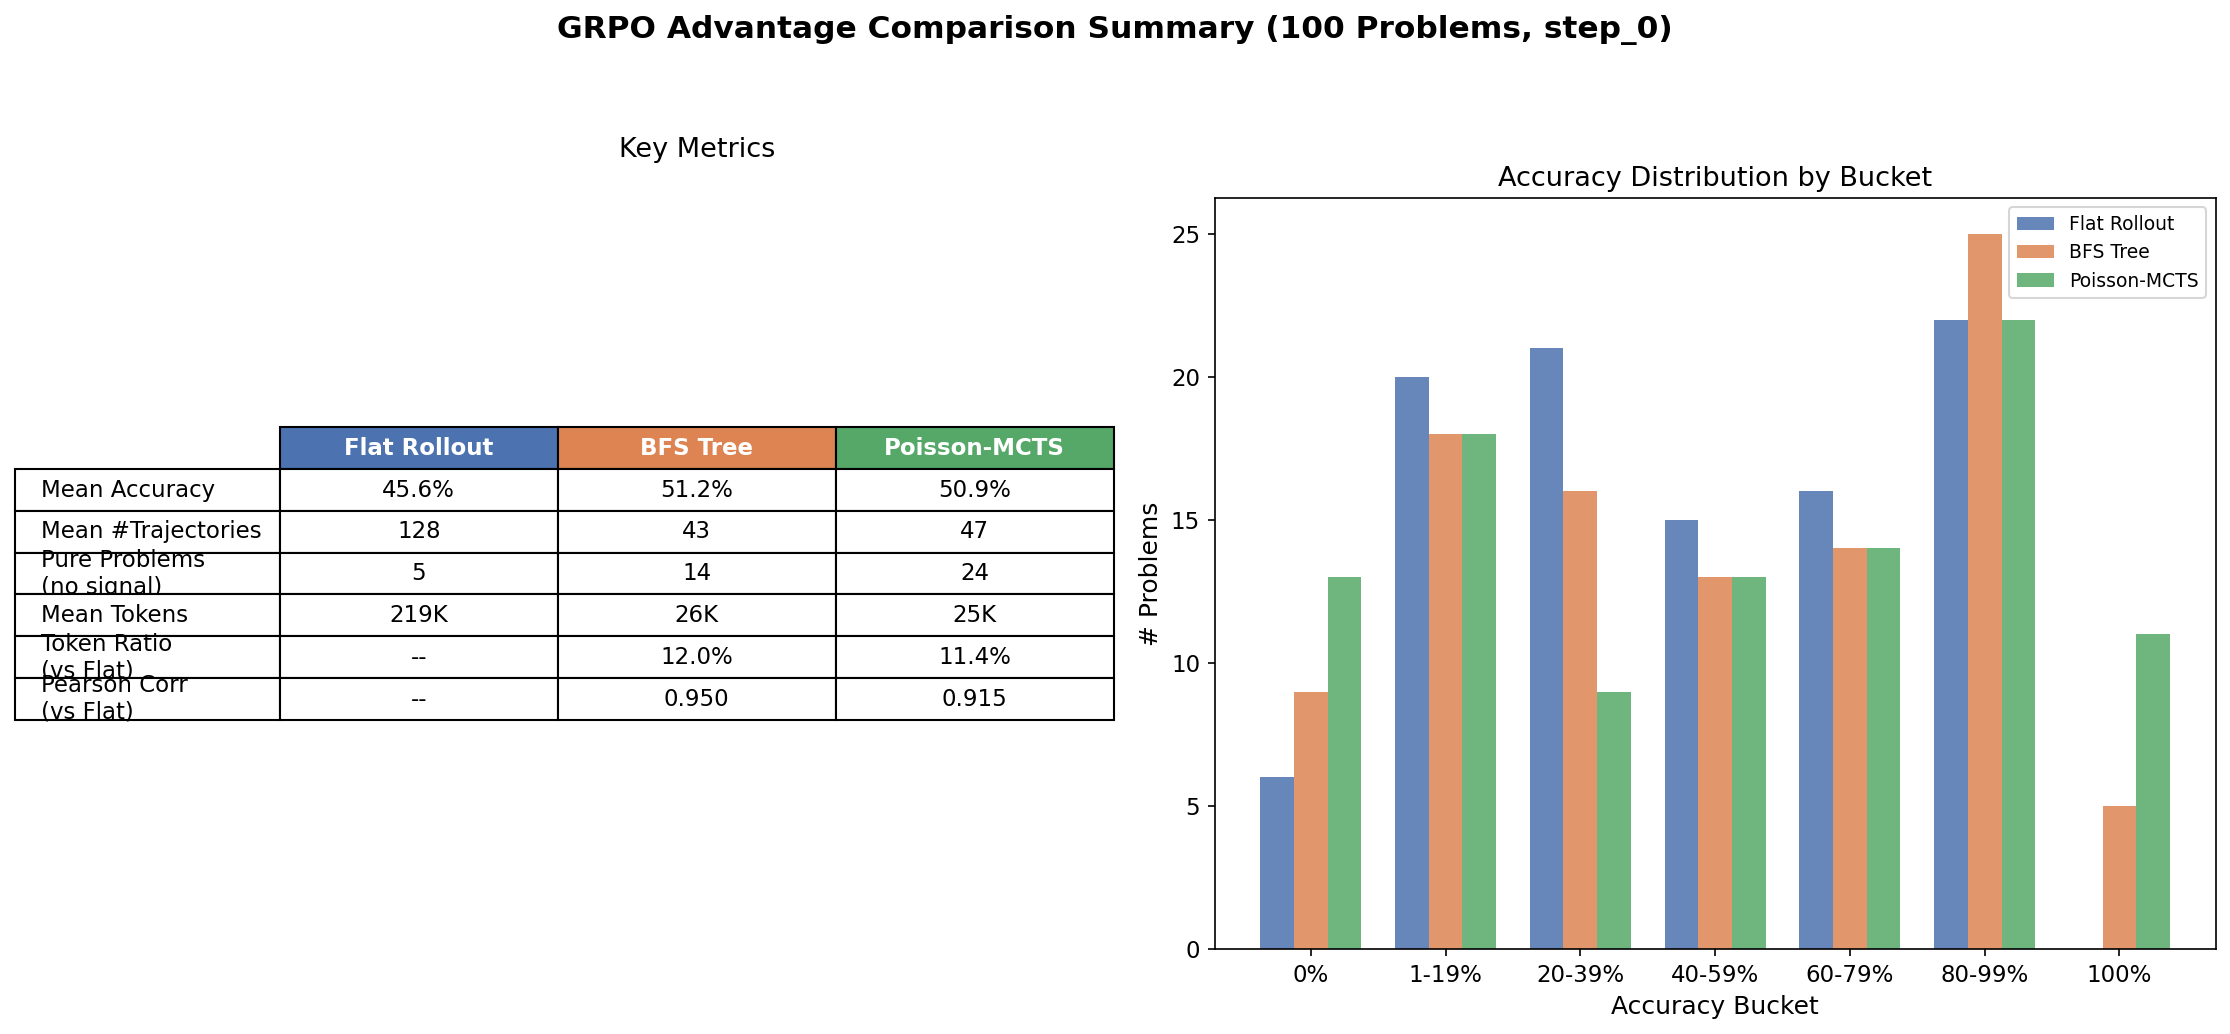
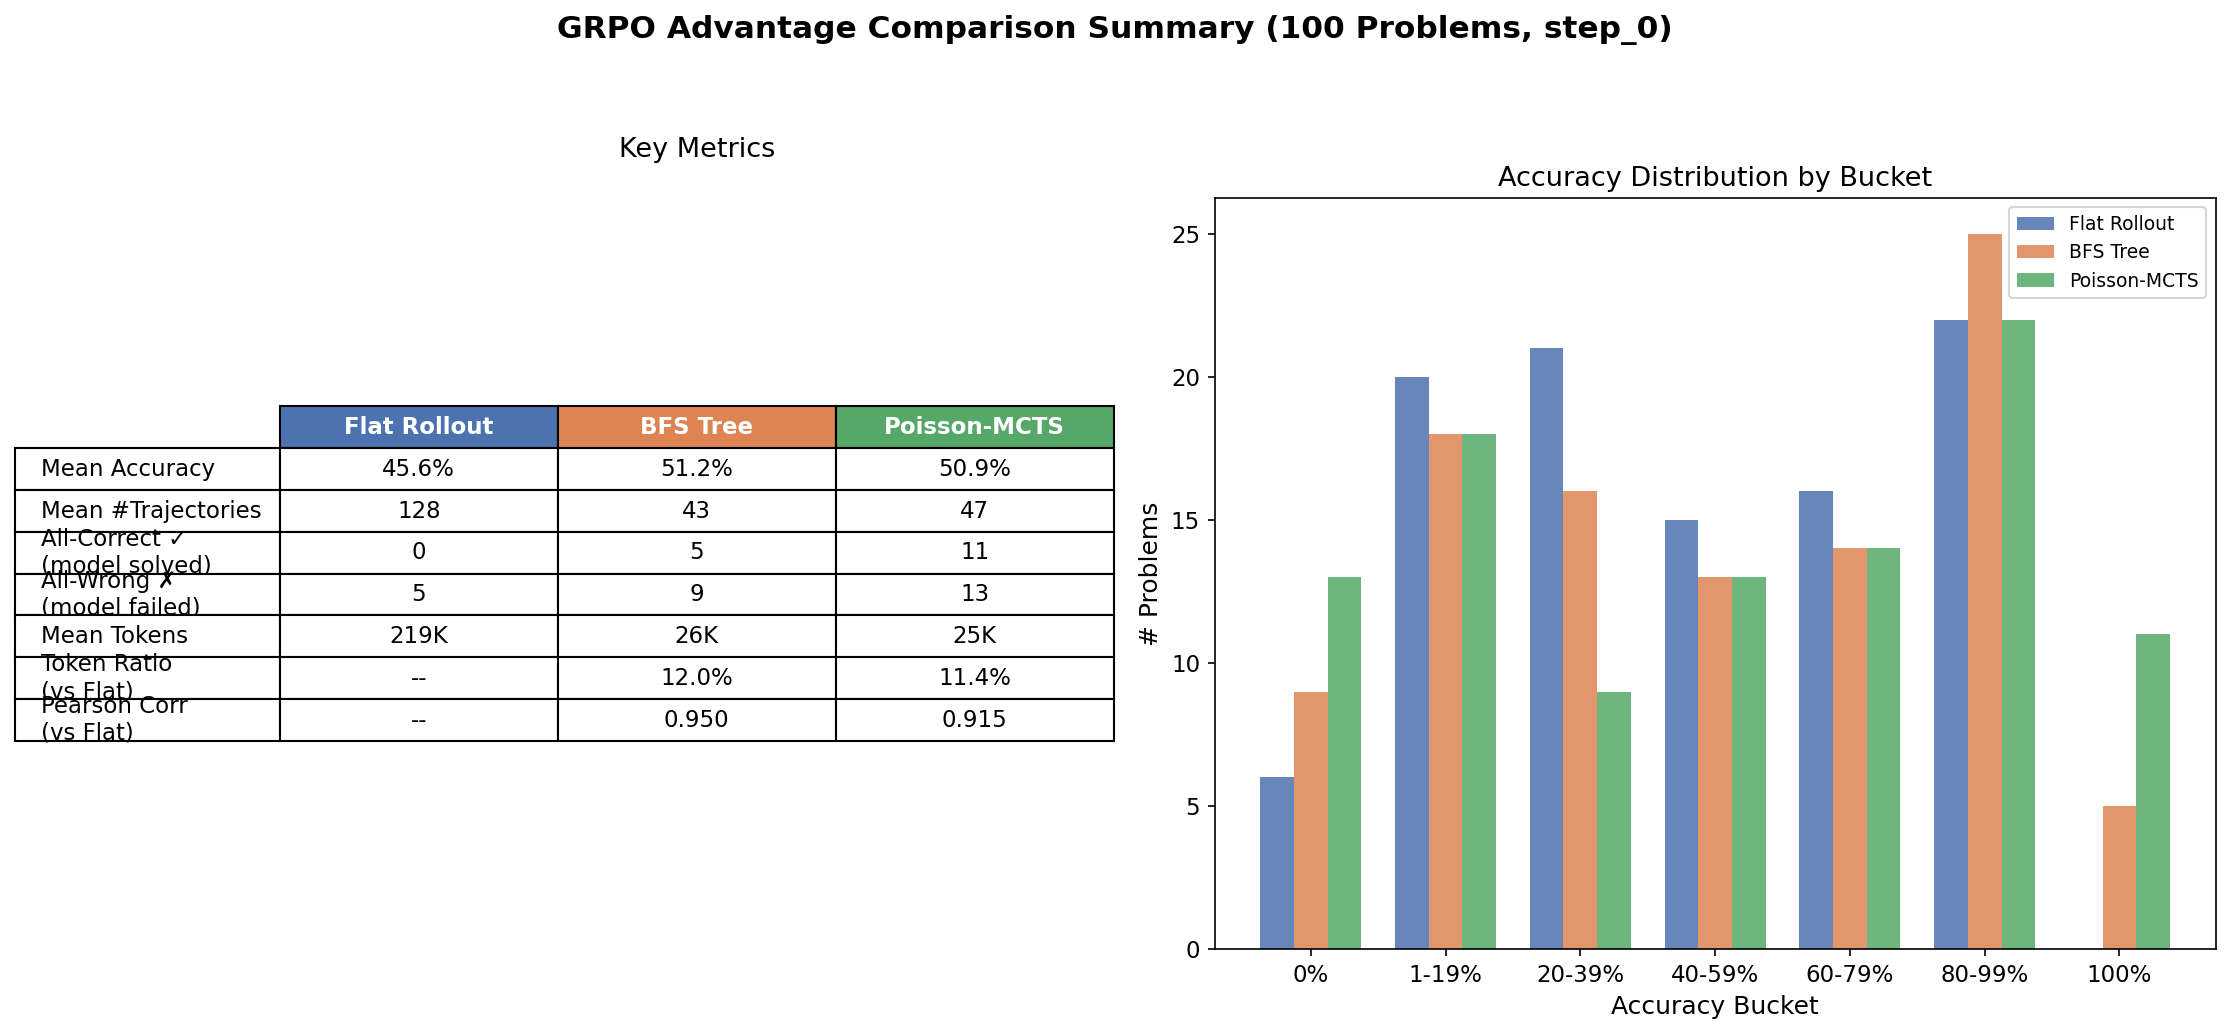
Split no-advantage into all-correct vs all-wrong (ROADMAP item #1)
Replaces 'purity' framing with the more meaningful split:
- All-Correct (model solved): good outcome despite zero GRPO signal
- All-Wrong (model failed): the truly bad case

Key finding on 100 problems @ step_0:
- Flat: 0 all-correct, 5 all-wrong
- BFS: 5 all-correct, 9 all-wrong
- MCTS: 11 all-correct, 13 all-wrong
- Tree methods are net-positive on outcomes (more newly-solved than newly-failed)

Changed region(s): [[0.0, 0.3714, 0.4951, 0.7427]]

diff --git a/poisson_mcts/plot_advantage_comparison.py b/poisson_mcts/plot_advantage_comparison.py
@@ -215,61 +215,90 @@ def plot_token_efficiency(results, out_dir):
     print(f"Saved {out_dir}/token_efficiency.png")
 
 
-def plot_purity_analysis(results, out_dir):
-    """Purity (adv_std=0) analysis: who loses signal and why."""
-    fig, axes = plt.subplots(1, 3, figsize=(16, 5.5))
+def plot_no_advantage_analysis(results, out_dir):
+    """No-advantage analysis: split into all-correct (good) vs all-wrong (bad)."""
+    fig, axes = plt.subplots(1, 3, figsize=(17, 6))
 
     fa = np.array([r["flat"]["accuracy"] for r in results])
     ba = np.array([r["bfs_tree"]["accuracy"] for r in results])
     ma = np.array([r["poisson_mcts"]["accuracy"] for r in results])
-    f_pure = np.array([r["flat"]["adv_std"] < 0.01 for r in results])
-    b_pure = np.array([r["bfs_tree"]["adv_std"] < 0.01 for r in results])
-    m_pure = np.array([r["poisson_mcts"]["adv_std"] < 0.01 for r in results])
-    bn = np.array([r["bfs_tree"]["num_trajectories"] for r in results])
-    mn = np.array([r["poisson_mcts"]["num_trajectories"] for r in results])
 
-    # Purity counts
+    def split(method_key):
+        accs = np.array([r[method_key]["accuracy"] for r in results])
+        no_adv = np.array([r[method_key]["adv_std"] < 0.01 for r in results])
+        all_correct = no_adv & (accs > 0.99)
+        all_wrong = no_adv & (accs < 0.01)
+        return no_adv, all_correct, all_wrong
+
+    f_no, f_correct, f_wrong = split("flat")
+    b_no, b_correct, b_wrong = split("bfs_tree")
+    m_no, m_correct, m_wrong = split("poisson_mcts")
+
+    # 1. Stacked bar: all-correct (good) vs all-wrong (bad)
     ax = axes[0]
-    counts = [f_pure.sum(), b_pure.sum(), m_pure.sum()]
-    bars = ax.bar(["Flat", "BFS", "MCTS"], counts,
-                  color=[COLORS["flat"], COLORS["bfs"], COLORS["mcts"]], alpha=0.8)
-    for bar, c in zip(bars, counts):
-        ax.text(bar.get_x() + bar.get_width() / 2, bar.get_height() + 0.5,
-                str(c), ha="center", fontsize=12, fontweight="bold")
-    ax.set_ylabel("# Pure Problems (no RL signal)")
-    ax.set_title("Pure Groups (adv_std = 0)")
-    ax.set_ylim(0, max(counts) * 1.3)
+    methods = ["Flat", "BFS", "MCTS"]
+    correct_counts = [f_correct.sum(), b_correct.sum(), m_correct.sum()]
+    wrong_counts = [f_wrong.sum(), b_wrong.sum(), m_wrong.sum()]
+    x = np.arange(3)
+    bars1 = ax.bar(x, correct_counts, color="#4CAF50", alpha=0.85,
+                   label="All correct (model solved it ✓)", edgecolor="white")
+    bars2 = ax.bar(x, wrong_counts, bottom=correct_counts, color="#E53935", alpha=0.85,
+                   label="All wrong (model failed ✗)", edgecolor="white")
+    for i, (c, w) in enumerate(zip(correct_counts, wrong_counts)):
+        if c > 0:
+            ax.text(i, c / 2, str(c), ha="center", va="center",
+                    fontsize=12, fontweight="bold", color="white")
+        if w > 0:
+            ax.text(i, c + w / 2, str(w), ha="center", va="center",
+                    fontsize=12, fontweight="bold", color="white")
+        ax.text(i, c + w + 0.5, f"total: {c + w}", ha="center", fontsize=10)
+    ax.set_xticks(x)
+    ax.set_xticklabels(methods)
+    ax.set_ylabel("# No-Advantage Problems")
+    ax.set_title("No-Advantage Problems: Good vs Bad")
+    ax.legend(fontsize=9, loc="upper left")
+    ax.set_ylim(0, max(c + w for c, w in zip(correct_counts, wrong_counts)) * 1.4)
 
-    # MCTS: trajectory count vs purity
+    # 2. Per-method comparison: which problems are all-wrong in tree but not in flat
     ax = axes[1]
-    ax.scatter(mn[~m_pure], ma[~m_pure], s=30, alpha=0.6, color=COLORS["mcts"], label="Has signal")
-    ax.scatter(mn[m_pure], ma[m_pure], s=60, alpha=0.9, color="red", marker="x", lw=2, label="Pure (no signal)")
-    ax.set_xlabel("MCTS #Trajectories")
-    ax.set_ylabel("MCTS Accuracy")
-    ax.set_title("MCTS: Trajectory Count vs Purity")
-    ax.legend(fontsize=9)
+    bfs_only_wrong = b_wrong & ~f_wrong  # tree all-wrong, flat had signal
+    mcts_only_wrong = m_wrong & ~f_wrong
+    bfs_only_correct = b_correct & ~f_correct  # tree all-correct, flat didn't
+    mcts_only_correct = m_correct & ~f_correct
 
-    # Flat accuracy of problems that became pure in tree methods
+    cats = ["BFS\nnewly\nall-correct", "MCTS\nnewly\nall-correct",
+            "BFS\nnewly\nall-wrong", "MCTS\nnewly\nall-wrong"]
+    vals = [bfs_only_correct.sum(), mcts_only_correct.sum(),
+            bfs_only_wrong.sum(), mcts_only_wrong.sum()]
+    colors_cats = ["#4CAF50", "#4CAF50", "#E53935", "#E53935"]
+    bars = ax.bar(cats, vals, color=colors_cats, alpha=0.85, edgecolor="white")
+    for bar, v in zip(bars, vals):
+        ax.text(bar.get_x() + bar.get_width() / 2, bar.get_height() + 0.2,
+                str(v), ha="center", fontsize=12, fontweight="bold")
+    ax.set_ylabel("# Problems")
+    ax.set_title("Tree vs Flat: Where Outcomes Diverge")
+    ax.set_ylim(0, max(vals) * 1.3 if max(vals) > 0 else 5)
+
+    # 3. Flat accuracy of problems that became all-wrong in tree (the truly bad cases)
     ax = axes[2]
-    bfs_lost = ~f_pure & b_pure
-    mcts_lost = ~f_pure & m_pure
     bins = np.arange(0, 1.05, 0.1)
-    if bfs_lost.sum() > 0:
-        ax.hist(fa[bfs_lost], bins=bins, alpha=0.6, color=COLORS["bfs"],
-                label=f"BFS lost ({bfs_lost.sum()})", edgecolor="white")
-    if mcts_lost.sum() > 0:
-        ax.hist(fa[mcts_lost], bins=bins, alpha=0.6, color=COLORS["mcts"],
-                label=f"MCTS lost ({mcts_lost.sum()})", edgecolor="white")
+    if bfs_only_wrong.sum() > 0:
+        ax.hist(fa[bfs_only_wrong], bins=bins, alpha=0.6, color=COLORS["bfs"],
+                label=f"BFS now all-wrong ({bfs_only_wrong.sum()})", edgecolor="white")
+    if mcts_only_wrong.sum() > 0:
+        ax.hist(fa[mcts_only_wrong], bins=bins, alpha=0.6, color=COLORS["mcts"],
+                label=f"MCTS now all-wrong ({mcts_only_wrong.sum()})", edgecolor="white")
     ax.set_xlabel("Flat Rollout Accuracy")
     ax.set_ylabel("Count")
-    ax.set_title("Signal Lost: Flat Accuracy of Affected Problems")
+    ax.set_title("Truly Bad Cases: Flat Accuracy of Tree's All-Wrong Problems")
     ax.legend(fontsize=9)
 
-    fig.suptitle("Purity Analysis: When Does Tree Search Lose RL Signal?", fontsize=15, fontweight="bold")
+    fig.suptitle("No-Advantage Analysis: All-Correct (Good) vs All-Wrong (Bad)",
+                 fontsize=15, fontweight="bold")
     fig.tight_layout(rect=[0, 0, 1, 0.93])
-    fig.savefig(f"{out_dir}/purity_analysis.png", bbox_inches="tight")
+    fig.savefig(f"{out_dir}/no_advantage_analysis.png", bbox_inches="tight")
     plt.close(fig)
-    print(f"Saved {out_dir}/purity_analysis.png")
+    print(f"Saved {out_dir}/no_advantage_analysis.png")
 
 
 def plot_advantage_distributions(results, out_dir):
@@ -366,19 +395,26 @@ def plot_summary_table(results, out_dir):
     fn = [r["flat"]["num_trajectories"] for r in results]
     bn = [r["bfs_tree"]["num_trajectories"] for r in results]
     mn = [r["poisson_mcts"]["num_trajectories"] for r in results]
-    f_pure = sum(1 for r in results if r["flat"]["adv_std"] < 0.01)
-    b_pure = sum(1 for r in results if r["bfs_tree"]["adv_std"] < 0.01)
-    m_pure = sum(1 for r in results if r["poisson_mcts"]["adv_std"] < 0.01)
+    def split_no_adv(method_key):
+        accs_arr = np.array([r[method_key]["accuracy"] for r in results])
+        no_adv = np.array([r[method_key]["adv_std"] < 0.01 for r in results])
+        return int((no_adv & (accs_arr > 0.99)).sum()), int((no_adv & (accs_arr < 0.01)).sum())
+
+    f_correct, f_wrong = split_no_adv("flat")
+    b_correct, b_wrong = split_no_adv("bfs_tree")
+    m_correct, m_wrong = split_no_adv("poisson_mcts")
 
     cell_text = [
         [f"{np.mean(fa):.1%}", f"{np.mean(ba):.1%}", f"{np.mean(ma):.1%}"],
         [f"{np.mean(fn):.0f}", f"{np.mean(bn):.0f}", f"{np.mean(mn):.0f}"],
-        [f"{f_pure}", f"{b_pure}", f"{m_pure}"],
+        [f"{f_correct}", f"{b_correct}", f"{m_correct}"],
+        [f"{f_wrong}", f"{b_wrong}", f"{m_wrong}"],
         [f"{np.mean(ft)/1000:.0f}K", f"{np.mean(bt)/1000:.0f}K", f"{np.mean(mt)/1000:.0f}K"],
         ["--", f"{np.sum(bt)/np.sum(ft):.1%}", f"{np.sum(mt)/np.sum(ft):.1%}"],
         ["--", f"{pearsonr(fa,ba)[0]:.3f}", f"{pearsonr(fa,ma)[0]:.3f}"],
     ]
-    row_labels = ["Mean Accuracy", "Mean #Trajectories", "Pure Problems\n(no signal)",
+    row_labels = ["Mean Accuracy", "Mean #Trajectories",
+                  "All-Correct ✓\n(model solved)", "All-Wrong ✗\n(model failed)",
                   "Mean Tokens", "Token Ratio\n(vs Flat)", "Pearson Corr\n(vs Flat)"]
     col_labels = ["Flat Rollout", "BFS Tree", "Poisson-MCTS"]
 
@@ -437,7 +473,7 @@ def main():
     plot_accuracy_bar(results, out_dir)
     plot_trajectory_counts(results, out_dir)
     plot_token_efficiency(results, out_dir)
-    plot_purity_analysis(results, out_dir)
+    plot_no_advantage_analysis(results, out_dir)
     plot_advantage_distributions(results, out_dir)
     plot_summary_table(results, out_dir)
 

diff --git a/poisson_mcts/results/advantage_comparison/step_0/README.md b/poisson_mcts/results/advantage_comparison/step_0/README.md
@@ -5,7 +5,7 @@
 ## 图表说明
 
 ### `summary.png`
-**汇总图。** 左侧为关键指标表格，右侧为正确率分桶柱状图。表格展示三种方法在准确率、轨迹数、纯度（无 RL 信号的题数）、token 开销和相关性上的对比。分桶图揭示树方法将更多题目推向极端（0% 和 100%），中间地带（20-60%）的题目减少。Flat 没有任何题达到 100% 正确率，但 BFS 有 5 题、MCTS 有 11 题达到 100%。
+**汇总图。** 左侧为关键指标表格，右侧为正确率分桶柱状图。表格区分了 **All-Correct**（模型完美解决，好事）和 **All-Wrong**（模型完全失败，坏事）两类无信号问题。Flat 0/5、BFS 5/9、MCTS 11/13 分别表示 all-correct/all-wrong。注意 Flat 没有任何题能 128 全对（说明基础模型在 100 题中没有一道是完全确定能解的）。分桶图揭示树方法将更多题目推向极端：BFS 和 MCTS 都新增了 100% 正确率桶的题目。
 
 ### `accuracy_scatter.png`
 **逐题正确率散点图。** 每个点代表一道题，X 轴为 Flat Rollout 正确率，Y 轴为树方法正确率，颜色深浅表示该题生成的轨迹数量。虚线为 y=x 参考线。BFS 与 Flat 的 Pearson 相关性为 0.950，MCTS 为 0.915。大部分点在对角线上方，说明树方法整体正确率略高于 Flat。MCTS 散点更分散（方差更大），部分原因是轨迹数不稳定（颜色深的点偏离更远）。
@@ -22,8 +22,14 @@
 ### `token_efficiency.png`
 **计算效率对比。** 左图箱线图展示三种方法的每题 token 开销：Flat 中位数约 170K token，BFS 和 MCTS 中位数约 25K，约为 Flat 的 12-15%。右图散点图展示逐题的 token 比率（Tree/Flat），BFS 均值 14.9%，MCTS 均值 14.6%。树方法通过前缀共享大幅降低了计算成本。
 
-### `purity_analysis.png`
-**Purity 分析：树方法何时丢失 RL 信号？** 左图柱状图展示三种方法的 pure 题目数（adv_std=0，即所有轨迹全对或全错，GRPO advantage 为 0，无训练信号）：Flat 5 题，BFS 14 题，MCTS 24 题。中间散点图展示 MCTS 的轨迹数与 purity 的关系——纯组（红叉）在各个轨迹数量级都存在，并非只出现在轨迹少的题目上，高准确率题（全对）和低准确率题（全错）都容易变纯。右图展示丢失信号的题目在 Flat 中的原始正确率分布：大部分集中在极端值（接近 0% 或 90%+），即本来就接近全对/全错的题目。
+### `no_advantage_analysis.png`
+**No-Advantage 分析：拆分为 All-Correct（好）vs All-Wrong（坏）。** 这是关键的分析图，纠正了之前把"无信号"一概视为坏事的误解。
+
+- **左图**（堆叠柱状图）：将每种方法的 no-advantage 题目按结果拆分。绿色为 all-correct（模型完美解决，128 条全对），红色为 all-wrong（模型完全失败，128 条全错）。Flat 5 题全是 all-wrong（基础模型没能完美解决任何一题）；BFS 14 题中 5 个 all-correct + 9 个 all-wrong；MCTS 24 题中 11 个 all-correct + 13 个 all-wrong。**关键洞察**：树方法的"无信号"很大一部分是因为模型解决了问题，这是 RL 训练的目标本身（GRPO 信号消失只是这个目标的副作用）。
+
+- **中图**（柱状图）：Tree vs Flat 的结果差异。"newly all-correct"（绿）表示树方法把原本 Flat 没解决的题变成了 100% 正确率（BFS 5 题，MCTS 11 题）；"newly all-wrong"（红）表示树方法把原本 Flat 有信号的题变成了完全失败（BFS 4 题，MCTS 8 题）。**树方法新增的 all-correct 多于新增的 all-wrong**，说明 tree-based search 整体上提升了模型的解题能力。
+
+- **右图**（直方图）：真正坏的情况——树方法变成 all-wrong 的题在 Flat 中原本的正确率分布。可以看到这些题在 Flat 中本来就偏难（大部分 <50%），但还有信号，树方法的随机性让它们彻底失败。
 
 ### `advantage_distributions.png`
 **6 道代表性题目的 GRPO Advantage 分布直方图。** 选取了 6 种典型情况：三方法一致（如 Problem 11 全错）、BFS 大幅优于 Flat、MCTS 大幅优于 Flat、MCTS 大幅劣于 Flat、中等难度题、困难题。每个子图中三种颜色的直方图叠加显示 advantage 值的分布密度，图例标注了正确率和轨迹数。可以看到当正确率不同时，advantage 分布的形状（二值分布的两个 spike 的高度比）会发生偏移。

diff --git a/ROADMAP.md b/ROADMAP.md
@@ -75,11 +75,15 @@
 - ✅ Generate 8+ comparison figures
 - ✅ Per-problem accuracy comparison (4×25 horizontal bars)
 - ✅ Mean/std accuracy comparison
-- ☐ **CRITICAL: Re-do "no-advantage" analysis splitting into:**
+- ✅ **CRITICAL: Re-do "no-advantage" analysis splitting into:**
   - `all_correct` (all reward = 1) — actually a **good** sign (model solved it)
   - `all_wrong` (all reward = 0) — the **bad** case
-  - Current report combines them, which is misleading
-- ☐ Also report per-method: how many problems became `all_correct` only because of tree (i.e. tree solved a problem flat couldn't)
+  - **Result on 100 problems @ step_0**: Flat 0/5, BFS 5/9, MCTS 11/13 (correct/wrong)
+  - **Key finding**: Tree methods' no-advantage is mostly *because they solved the problem*, not failure
+- ✅ Per-method "newly" comparison: tree methods newly all-correct vs newly all-wrong
+  - BFS: +5 newly all-correct, +4 newly all-wrong
+  - MCTS: +11 newly all-correct, +8 newly all-wrong
+  - Tree methods *net positive* on outcomes
 
 ---
 
@@ -164,10 +168,11 @@ The "advanced" method that goes beyond faithfulness for actual gains, while stil
 
 ## Immediate Next Steps (Priority Order)
 
-1. **[HIGH] Split "no-advantage" into all-correct vs all-wrong** for the 100-problem analysis
-   - Update `poisson_mcts/plot_advantage_comparison.py`
-   - Re-generate purity_analysis.png and summary.png
-   - Update README with new terminology
+1. ✅ **[HIGH] Split "no-advantage" into all-correct vs all-wrong** for the 100-problem analysis
+   - ✅ Updated `poisson_mcts/plot_advantage_comparison.py` (added `plot_no_advantage_analysis`)
+   - ✅ Replaced `purity_analysis.png` with `no_advantage_analysis.png`
+   - ✅ Updated `summary.png` table to split All-Correct ✓ / All-Wrong ✗
+   - ✅ Updated README with new terminology and findings
 
 2. **[HIGH] Rename Poisson MCTS → NegBin MCTS** across codebase
    - Files: `poisson_mcts_engine.py`, `poisson_mcts_tree.py`, output dirs
